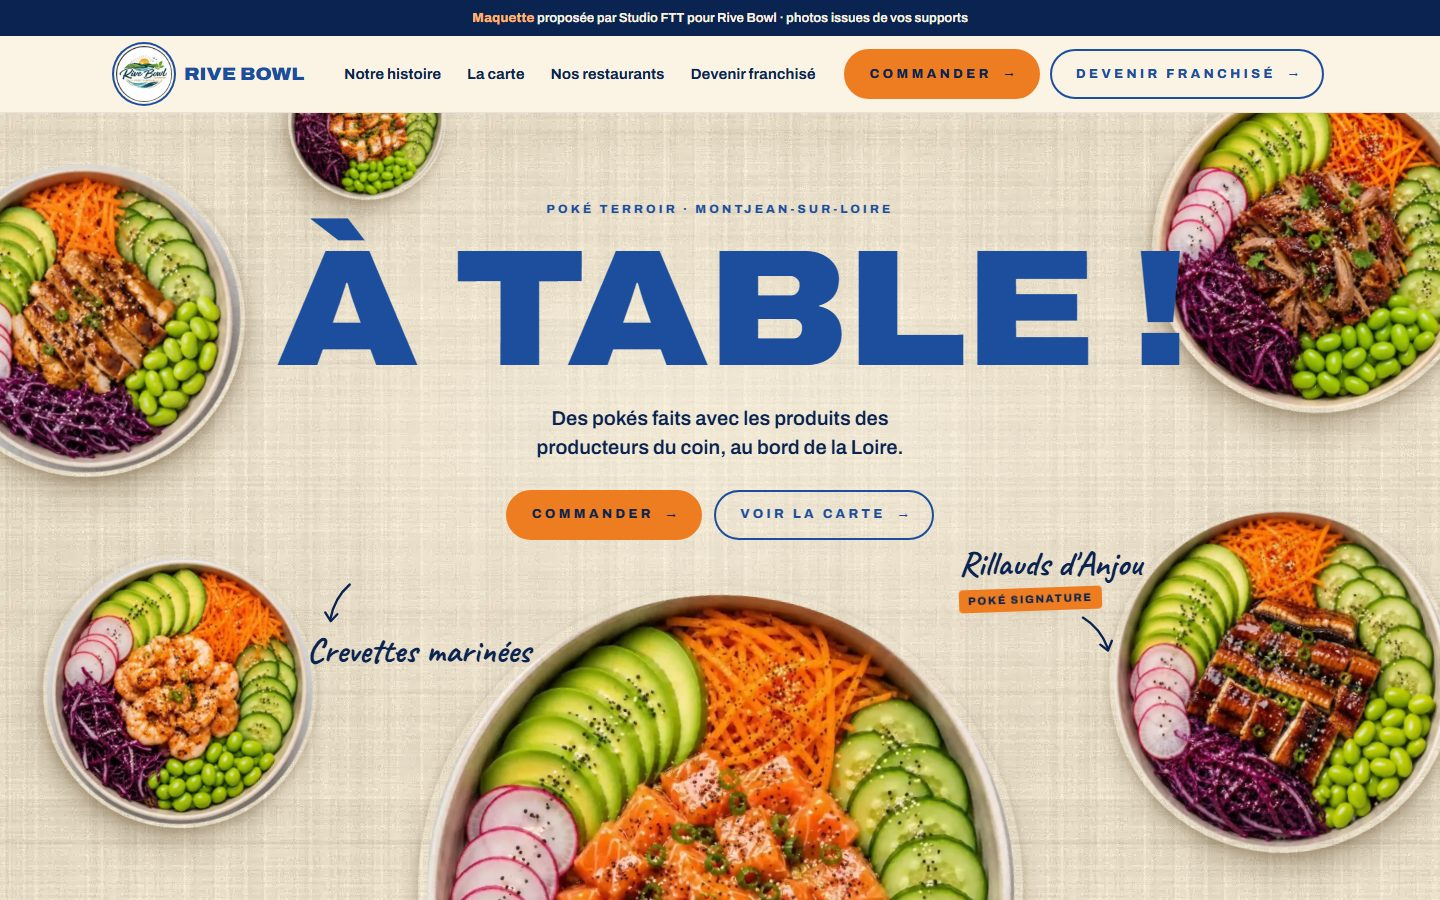
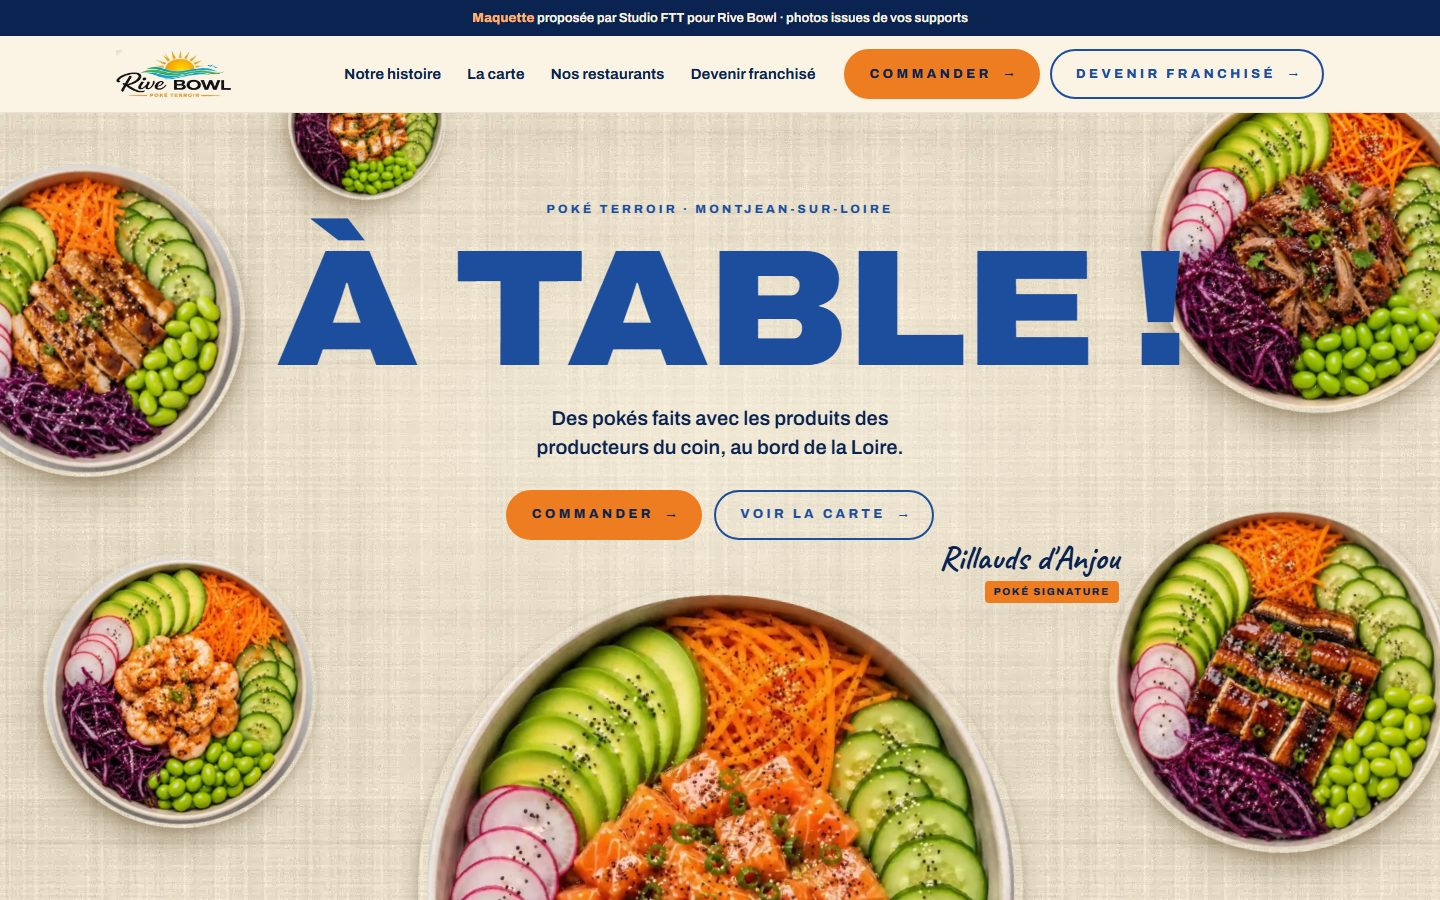
Maquette Rive Bowl : version téléphone revue, vrais horaires et prix, sans flèches dessinées

diff --git a/public/maquettes/rive-bowl/index.html b/public/maquettes/rive-bowl/index.html
@@ -8,7 +8,7 @@
 <title>Rive Bowl · Poké terroir à Montjean-sur-Loire (maquette)</title>
 <meta name="description" content="Maquette privée proposée par Studio FTT pour Rive Bowl, poké terroir au bord de la Loire à Montjean-sur-Loire." />
 <meta name="theme-color" content="#FBF3E4" />
-<link rel="icon" href="img/logo.webp" type="image/webp" />
+<link rel="icon" href="img/logo.webp" type="image/webp" /><!-- logo de l'en-tête : étiquette du pot de cremet d'Anjou sur rivebowl.dishop.co -->
 <link rel="preconnect" href="https://fonts.googleapis.com" />
 <link rel="preconnect" href="https://fonts.gstatic.com" crossorigin />
 <link href="https://fonts.googleapis.com/css2?family=Archivo:wdth,wght@62..125,400..900&family=Caveat:wght@600;700&display=swap" rel="stylesheet" />
@@ -66,7 +66,9 @@ a{color:inherit}
 .entete{position:sticky;top:0;z-index:40;background:var(--creme);border-bottom:1px solid rgba(11,35,80,.08)}
 .entete .wrap{display:flex;align-items:center;gap:28px;height:76px}
 .logo{display:flex;align-items:center;gap:12px;text-decoration:none;flex:none}
-.logo img{width:56px;height:56px;border-radius:50%;box-shadow:0 0 0 2px var(--creme),0 0 0 4px var(--loire)}
+.logo img{height:48px;width:auto}
+@media (max-width:420px){.logo img{height:40px}}
+.logo--pied{display:inline-flex;background:var(--creme);border-radius:14px;padding:10px 14px}
 .logo span{font:900 18px/1 var(--display);font-stretch:112%;text-transform:uppercase;color:var(--loire)}
 .nav{display:flex;gap:26px;margin-left:auto}
 .nav a{font:700 15px/1 var(--display);text-decoration:none;color:var(--ink);padding:8px 0;background:linear-gradient(var(--soleil),var(--soleil)) 0 100%/0 2px no-repeat;transition:background-size .4s var(--ease)}
@@ -94,7 +96,7 @@ a{color:inherit}
 .table__texte .kicker{color:var(--loire)}
 .table h1{margin-top:18px;font-size:clamp(76px,11.5vw,190px);color:var(--loire);line-height:.86;white-space:nowrap}
 .table h1 .mot{display:inline-block}
-.table__sous{margin:22px auto 0;max-width:34ch;font:600 clamp(17px,1.5vw,20px)/1.45 var(--display);color:var(--ink)}
+.table__sous{margin:22px auto 0;max-width:34ch;text-wrap:balance;font:600 clamp(17px,1.5vw,20px)/1.45 var(--display);color:var(--ink)}
 .table__boutons{display:flex;gap:12px;justify-content:center;flex-wrap:wrap;margin-top:28px}
 
 .bol{position:absolute;z-index:2;left:var(--x);top:var(--y);width:var(--w);aspect-ratio:1;--r:0deg;--s:0deg}
@@ -109,39 +111,35 @@ a{color:inherit}
 .b5{--x:29%;--y:60%;--w:clamp(380px,42vw,620px);--r:6deg}
 .b6{--x:20%;--y:-9%;--w:clamp(120px,11vw,170px);--r:30deg}
 
-/* étiquettes manuscrites */
+/* étiquette manuscrite (sobre, sans flèche) */
 .etiq{position:absolute;z-index:6;display:flex;flex-direction:column;align-items:flex-start;gap:6px;pointer-events:none}
-.etiq .main{font-size:clamp(26px,2.4vw,36px);color:var(--loire-ink);white-space:nowrap}
-.etiq .tag{display:inline-block;background:var(--soleil);color:var(--loire-ink);font:800 11px/1 var(--display);letter-spacing:.14em;text-transform:uppercase;padding:6px 9px;border-radius:4px;white-space:nowrap;transform:rotate(-2deg)}
-.etiq svg{width:58px;height:44px;color:var(--loire-ink)}
-.etiq--1{left:calc(77% - 150px);top:calc(50% + 40px)}
-.etiq--1 svg{margin-left:120px;margin-top:-4px}
-.etiq--2{left:calc(3% + clamp(180px,19vw,290px) - 10px);top:calc(56% + 30px)}
-.etiq--2 svg{transform:scaleX(-1) rotate(10deg);margin-left:-8px}
+.etiq .main{font-size:clamp(26px,2.4vw,34px);color:var(--loire-ink);white-space:nowrap}
+.etiq .tag{display:inline-block;background:var(--soleil);color:var(--loire-ink);font:800 10px/1 var(--display);letter-spacing:.16em;text-transform:uppercase;padding:6px 9px;border-radius:4px;white-space:nowrap}
+.etiq--1{left:calc(77% - 170px);top:calc(50% + 34px);align-items:flex-end}
 
+/* Téléphone : un bowl entier d'abord, la table ensuite */
 @media (max-width:760px){
-  .table{min-height:860px}
-  .table__texte{padding-top:150px}
+  .table{display:flex;flex-direction:column;align-items:center;min-height:0;padding:22px 0 50vw}
+  .table::after{background:radial-gradient(ellipse 80% 40% at 50% 30%,rgba(251,243,228,.6),transparent 70%)}
+  .b5{position:relative;left:auto;top:auto;width:min(70vw,300px);order:1;--r:0deg}
+  .table__texte{order:2;padding:18px 16px 0}
   .table__texte .kicker{letter-spacing:.16em;font-size:11px;white-space:normal}
-  .table h1{font-size:min(23vw,100px);font-stretch:100%;white-space:normal}
-  .b1{--x:-17%;--y:-4%;--w:47vw;--r:-14deg}
-  .b2{--x:62%;--y:-7%;--w:50vw;--r:18deg}
-  .b6{--x:36%;--y:-9%;--w:28vw}
-  .b3{--x:-24%;--y:71%;--w:46vw}
-  .b4{--x:74%;--y:72%;--w:46vw}
-  .b5{--x:13%;--y:79%;--w:78vw}
-  .etiq--2{display:none}
-  .etiq--1{left:auto;right:14px;top:calc(72% - 70px);align-items:flex-end}
-  .etiq--1 svg{display:none}
-  .etiq .main{font-size:28px}
-  .table__boutons{gap:10px;flex-wrap:nowrap}
-  .table__boutons .btn{padding:0 16px;letter-spacing:.1em}
+  .table h1{margin-top:12px;font-size:min(17vw,76px);font-stretch:100%;white-space:nowrap}
+  .table__sous{margin-top:14px;font-size:16px;max-width:30ch}
+  .table__boutons{gap:10px;flex-wrap:nowrap;margin-top:20px}
+  .table__boutons .btn{padding:0 16px;letter-spacing:.1em;min-height:48px}
+  .b1{--x:-30%;--y:40px;--w:44vw;--r:-14deg}
+  .b2{--x:82%;--y:-14px;--w:40vw;--r:18deg}
+  .b6{--x:80%;--y:calc(min(70vw,300px) - 40px);--w:26vw}
+  .b3{top:auto;bottom:-16vw;left:-14%;width:54vw;--r:24deg}
+  .b4{top:auto;bottom:-8vw;left:52%;width:56vw;--r:-8deg}
+  .etiq--1{display:none}
 }
 @media (max-width:380px){
-  .table h1{font-size:19.5vw}
-  .table__boutons{flex-wrap:wrap}
+  .table h1{font-size:16.5vw}
+  .table__boutons .btn{padding:0 13px;letter-spacing:.06em;font-size:12px}
 }
-@media (max-width:760px) and (max-height:700px){.table__texte{padding-top:150px}}
+@media (max-width:340px){.table__boutons{flex-wrap:wrap}.entete .actions .btn{padding:0 12px;letter-spacing:.06em;font-size:12px}.logo img{height:34px}.burger{width:44px;height:44px}}
 
 /* HISTOIRE */
 .histoire{position:relative;padding:clamp(88px,12vw,170px) 0 clamp(88px,10vw,140px);overflow:hidden}
@@ -156,7 +154,7 @@ a{color:inherit}
 .histoire__bol{position:absolute;left:-7vw;bottom:-6vw;width:clamp(240px,34vw,520px);aspect-ratio:1;z-index:0}
 .histoire__bol .bol__img{--r:-20deg}
 .histoire__grid{position:relative;z-index:1}
-.histoire__photo{grid-column:1/6;grid-row:3;align-self:start;margin-top:48px;max-width:360px;justify-self:end;transform:rotate(-3deg);background:#fff;padding:10px 10px 14px;box-shadow:0 18px 30px -14px rgba(11,35,80,.35)}
+.histoire__photo{grid-column:1/6;grid-row:3;align-self:start;margin-top:48px;max-width:360px;justify-self:end;background:#fff;padding:10px 10px 14px;box-shadow:0 18px 30px -14px rgba(11,35,80,.35)}
 .histoire__photo img{aspect-ratio:4/3;object-fit:cover;width:100%}
 .histoire__photo figcaption{font:600 12px/1.3 var(--display);color:var(--ink-2);margin-top:10px}
 @media (max-width:860px){
@@ -187,7 +185,7 @@ a{color:inherit}
 .plat p{margin-top:8px;display:flex;justify-content:space-between;gap:12px;font-size:15px;color:rgba(251,243,228,.78)}
 .plat .prix{font-weight:800;color:var(--creme);white-space:nowrap}
 .plat .etiq{position:absolute;top:-6px;right:-6px;align-items:flex-end}
-.plat .etiq .main{color:#FFD2A6;font-size:34px;transform:rotate(-6deg)}
+.plat .etiq .main{color:#FFD2A6;font-size:30px}
 .carte .bols{padding-bottom:150px}
 @media (max-width:860px){
   .carte__grid{grid-template-columns:1fr}
@@ -218,7 +216,8 @@ a{color:inherit}
 .montjean__fiche .main{font-size:28px;color:var(--soleil-deep);margin-top:6px}
 .infos{list-style:none;margin-top:22px;display:grid;gap:12px;font-size:16px}
 .infos li{display:grid;grid-template-columns:96px 1fr;gap:12px;align-items:baseline}
-.infos span{font:800 11px/1.4 var(--display);letter-spacing:.2em;text-transform:uppercase;color:var(--ink-2)}
+.infos span.horaires{font:400 16px/1.5 var(--display);letter-spacing:0;text-transform:none;color:var(--ink)}
+.infos span:not(.horaires){font:800 11px/1.4 var(--display);letter-spacing:.2em;text-transform:uppercase;color:var(--ink-2)}
 .montjean__fiche .boutons{display:flex;flex-wrap:wrap;gap:10px;margin-top:28px}
 .credit{grid-column:1/9;font-size:12px;color:var(--ink-2);margin-top:10px}
 .carte-maps{margin-top:40px;border-radius:22px;overflow:hidden;aspect-ratio:21/8;background:var(--creme-2)}
@@ -232,9 +231,9 @@ a{color:inherit}
   .montjean__fiche{grid-row:2;margin:-56px 14px 0}
   .credit{grid-row:3}
   .carte-maps{aspect-ratio:4/3}
-  .bientot{grid-template-columns:1fr}
-  .bientot div{flex-wrap:wrap;padding:22px 24px}
-  .bientot strong{font-size:24px}
+  .bientot{grid-template-columns:minmax(0,1fr)}
+  .bientot div{flex-direction:column;align-items:flex-start;gap:12px;padding:22px 24px}
+  .bientot strong{font-size:clamp(18px,6vw,22px);white-space:normal;overflow-wrap:anywhere}
   .infos li{grid-template-columns:1fr;gap:2px}
 }
 
@@ -262,10 +261,25 @@ a{color:inherit}
 .form .btn:disabled{opacity:.55;cursor:not-allowed}
 @media (max-width:860px){.franchise__grid{grid-template-columns:1fr}.form .duo{grid-template-columns:1fr}}
 
+/* Téléphone : rythme plus serré, titres plus courts */
+@media (max-width:760px){
+  .histoire,.carte,.restos,.franchise{padding:68px 0}
+  .histoire{padding-bottom:46vw}
+  .histoire h2,.restos h2,.franchise h2{font-size:clamp(34px,10.4vw,46px)}
+  .carte h2{font-size:clamp(36px,11vw,48px)}
+  .histoire__texte{margin-top:28px}
+  .histoire__photo{margin-top:28px;max-width:100%}
+  .histoire__bol{width:56vw;right:-18vw;bottom:-12vw}
+  .montjean{margin-top:36px}
+  .carte-maps{margin-top:28px}
+  .principes{margin-top:26px}
+  .franchise__grid{gap:40px}
+  .pied{padding:56px 0 28px}
+}
+
 /* PIED DE PAGE */
 .pied{background:var(--loire-ink);color:rgba(251,243,228,.82);padding:72px 0 36px;font-size:15px}
 .pied__grid{display:grid;grid-template-columns:1.4fr 1fr 1fr;gap:40px}
-.pied .logo img{box-shadow:0 0 0 2px var(--loire-ink),0 0 0 4px #FFB46E}
 .pied .logo span{color:var(--creme)}
 .pied h4{font:800 12px/1 var(--display);letter-spacing:.25em;text-transform:uppercase;color:#FFB46E;margin-bottom:16px}
 .pied ul{list-style:none;display:grid;gap:8px}
@@ -298,8 +312,7 @@ a{color:inherit}
 <header class="entete">
   <div class="wrap">
     <a class="logo" href="#accueil" aria-label="Rive Bowl, retour en haut">
-      <img src="img/logo.webp" alt="Logo Rive Bowl, poké terroir" width="56" height="56" />
-      <span>Rive Bowl</span>
+      <img src="img/logo-rive-bowl.webp" alt="Rive Bowl, poké terroir" width="420" height="170" />
     </a>
     <nav class="nav" aria-label="Menu principal">
       <a href="#histoire">Notre histoire</a>
@@ -338,11 +351,6 @@ a{color:inherit}
   <div class="etiq etiq--1" aria-hidden="true">
     <span class="main">Rillauds d'Anjou</span>
     <span class="tag">Poké signature</span>
-    <svg viewBox="0 0 60 44" fill="none" stroke="currentColor" stroke-width="2.4" stroke-linecap="round" stroke-linejoin="round"><path d="M4 4c10 6 20 16 26 32"/><path d="M22 32l8 6 4-10"/></svg>
-  </div>
-  <div class="etiq etiq--2" aria-hidden="true">
-    <svg viewBox="0 0 60 44" fill="none" stroke="currentColor" stroke-width="2.4" stroke-linecap="round" stroke-linejoin="round"><path d="M4 4c10 6 20 16 26 32"/><path d="M22 32l8 6 4-10"/></svg>
-    <span class="main">Crevettes marinées</span>
   </div>
 
   <div class="table__texte">
@@ -358,7 +366,7 @@ a{color:inherit}
 
 <!-- NOTRE HISTOIRE -->
 <section class="histoire" id="histoire" aria-labelledby="titre-histoire">
-  <div class="histoire__bol" aria-hidden="true"><div class="bol__img" data-tourne="0.04"><img src="img/bowl-maineetloire.webp" alt="" width="720" height="720" loading="lazy" /></div></div>
+  <div class="histoire__bol" aria-hidden="true"><div class="bol__img"><img src="img/bowl-maineetloire.webp" alt="" width="720" height="720" loading="lazy" /></div></div>
   <div class="wrap histoire__grid">
     <span class="kicker apparait">Notre histoire</span>
     <h2 class="titre apparait" id="titre-histoire">Une grande salade au milieu de la table. <em>Et chacun se sert.</em></h2>
@@ -381,39 +389,39 @@ a{color:inherit}
       <span class="kicker">La carte</span>
       <h2 class="titre" id="titre-carte">Les pokés signature</h2>
       <p>Une base généreuse avec avocat, concombre, carottes râpées, radis, chou rouge mariné, édamame et sésame. Au milieu, vous choisissez ce que vous aimez.</p>
-      <p class="carte__aussi">En signature, il y a aussi le poulet crousty et le falafel. Et à la carte : <strong>pokés chauds</strong> au bouillon miso, <strong>bowls à prix malins</strong> dès 8,90&nbsp;€, <strong>formules midi</strong> de 14,90&nbsp;€ à 17,90&nbsp;€, et le cremet d'Anjou en dessert.</p>
+      <p class="carte__aussi">En signature, il y a aussi le poulet crousty et le falafel. Et à la carte : <strong>pokés chauds</strong> au bouillon miso, <strong>bowls à prix malins</strong> dès 8,90&nbsp;€, <strong>formules midi</strong> à 14,90&nbsp;€ et 17,90&nbsp;€<!-- Dishop, rubrique Menus, 05/11/2026 : Formule Midi 14,90 €, Formule Midi Complète 17,90 € -->, et le cremet d'Anjou en dessert.</p>
       <a class="btn btn--solid btn--wrap" href="https://rivebowl.dishop.co/" target="_blank" rel="noopener">Voir toute la carte et commander <span class="fl" aria-hidden="true">→</span></a>
       <p class="carte__glisse" aria-hidden="true">Faites glisser pour voir les pokés.</p>
     </div>
     <ul class="bols" aria-label="Pokés signature">
       <li class="plat apparait">
-        <div class="bol__img" data-tourne="0.03"><img src="img/bowl-rillauds.webp" alt="Poké signature rillauds d'Anjou" width="720" height="720" loading="lazy" /></div>
+        <div class="bol__img"><img src="img/bowl-rillauds.webp" alt="Poké signature rillauds d'Anjou" width="720" height="720" loading="lazy" /></div>
         <div class="etiq" aria-hidden="true"><span class="main">les recettes d'ici</span></div>
         <h3>Rillauds d'Anjou</h3>
         <p><span>Le poké du terroir angevin</span><span class="prix">11,90&nbsp;€</span></p>
       </li>
       <li class="plat apparait">
-        <div class="bol__img" data-tourne="-0.03"><img src="img/bowl-maineetloire.webp" alt="Poké signature Maine-et-Loire" width="720" height="720" loading="lazy" /></div>
+        <div class="bol__img"><img src="img/bowl-maineetloire.webp" alt="Poké signature Maine-et-Loire" width="720" height="720" loading="lazy" /></div>
         <h3>Maine-et-Loire</h3>
         <p><span>Inspiré de la Loire</span><span class="prix">11,90&nbsp;€</span></p>
       </li>
       <li class="plat apparait">
-        <div class="bol__img" data-tourne="0.03"><img src="img/bowl-saumon.webp" alt="Poké signature saumon mariné" width="1000" height="1000" loading="lazy" /></div>
+        <div class="bol__img"><img src="img/bowl-saumon.webp" alt="Poké signature saumon mariné" width="1000" height="1000" loading="lazy" /></div>
         <h3>Saumon mariné</h3>
         <p><span>Frais et équilibré</span><span class="prix">11,90&nbsp;€</span></p>
       </li>
       <li class="plat apparait">
-        <div class="bol__img" data-tourne="-0.03"><img src="img/bowl-canard.webp" alt="Poké signature effilochés de canard" width="720" height="720" loading="lazy" /></div>
+        <div class="bol__img"><img src="img/bowl-canard.webp" alt="Poké signature effilochés de canard" width="720" height="720" loading="lazy" /></div>
         <h3>Effilochés de canard</h3>
         <p><span>Gourmand</span><span class="prix">11,90&nbsp;€</span></p>
       </li>
       <li class="plat apparait">
-        <div class="bol__img" data-tourne="0.03"><img src="img/bowl-teriyaki.webp" alt="Poké signature poulet teriyaki" width="720" height="720" loading="lazy" /></div>
+        <div class="bol__img"><img src="img/bowl-teriyaki.webp" alt="Poké signature poulet teriyaki" width="720" height="720" loading="lazy" /></div>
         <h3>Poulet teriyaki</h3>
         <p><span>Sauce teriyaki</span><span class="prix">11,90&nbsp;€</span></p>
       </li>
       <li class="plat apparait">
-        <div class="bol__img" data-tourne="-0.03"><img src="img/bowl-crevettes.webp" alt="Poké signature crevettes marinées" width="720" height="720" loading="lazy" /></div>
+        <div class="bol__img"><img src="img/bowl-crevettes.webp" alt="Poké signature crevettes marinées" width="720" height="720" loading="lazy" /></div>
         <h3>Crevettes marinées</h3>
         <p><span>Frais et léger</span><span class="prix">11,90&nbsp;€</span></p>
       </li>
@@ -445,7 +453,8 @@ a{color:inherit}
           <li><span>Adresse</span>17 rue d'Anjou, Montjean-sur-Loire, 49570 Mauges-sur-Loire</li>
           <li><span>Sur place</span>Oui, et à emporter</li>
           <li><span>En ligne</span>Click &amp; Collect</li>
-          <li><span>Horaires</span>À renseigner</li>
+          <!-- Horaires relevés le 05/11/2026 sur rivebowl.dishop.co, fenêtre « Afficher les horaires » (horaires du Click & Collect) -->
+          <li><span>Horaires</span><span class="horaires">Lun., ven., sam. : 11 h 30-14 h 30 et 18 h 30-21 h 30<br />Mar. au jeu. : 11 h 30-14 h 30<br />Dim. : 18 h 30-21 h 30</span></li>
         </ul>
         <div class="boutons">
           <a class="btn btn--solid" href="https://rivebowl.dishop.co/" target="_blank" rel="noopener">Commander <span class="fl" aria-hidden="true">→</span></a>
@@ -505,7 +514,7 @@ a{color:inherit}
   <div class="wrap">
     <div class="pied__grid">
       <div>
-        <a class="logo" href="#accueil"><img src="img/logo.webp" alt="Logo Rive Bowl" width="56" height="56" loading="lazy" /><span>Rive Bowl</span></a>
+        <a class="logo logo--pied" href="#accueil"><img src="img/logo-rive-bowl.webp" alt="Rive Bowl, poké terroir" width="420" height="170" loading="lazy" /></a>
         <p class="pied__mot">Poké terroir. 17 rue d'Anjou, Montjean-sur-Loire, 49570 Mauges-sur-Loire.</p>
       </div>
       <div>
